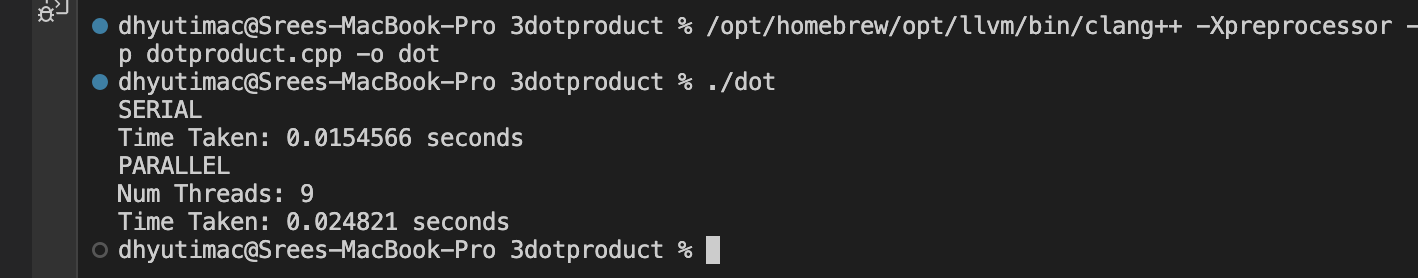
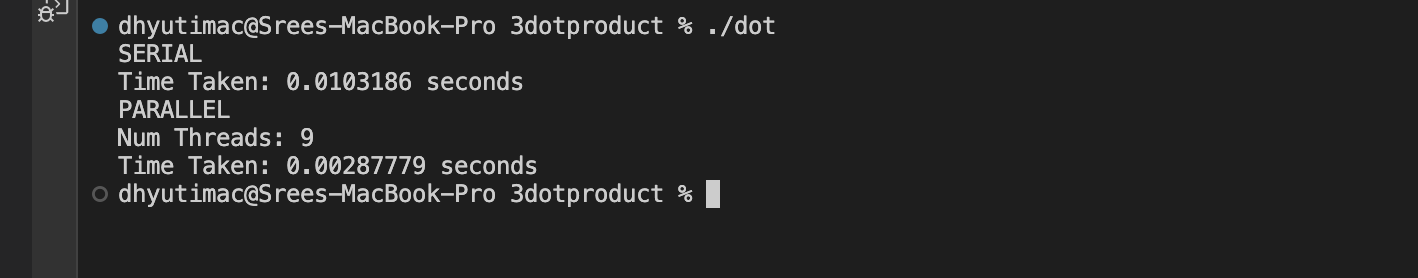
Add the get_threads function separately to save time

diff --git a/OpenMP/3dotproduct/dotproduct.cpp b/OpenMP/3dotproduct/dotproduct.cpp
@@ -1,5 +1,3 @@
-// Code to parallelize the dot product of two large arrays
-
 #include <iostream>
 #include <omp.h>
 #include <chrono>
@@ -9,68 +7,68 @@ using namespace std;
 
 long long N = 10000000;
 
-int main(){
-
+int main() {
     omp_set_num_threads(9);
 
-    long long *a, *b;
+    long long *a = new long long[N];
+    long long *b = new long long[N];
+
     random_device rd;
     mt19937 gen(rd());
-
-    a = new long long[N];
-    b = new long long[N];
-
     uniform_int_distribution<int> dist(1, 1000000);
 
-    // populate a and b
-    for(long long i = 0; i< N; i++){
+    // Parallel initialization of arrays
+    #pragma omp parallel for
+    for (long long i = 0; i < N; i++) {
         a[i] = dist(gen);
         b[i] = dist(gen);
     }
 
     long long dot_product = 0;
 
-
-    // dot product serial
+    // Serial dot product
     auto start_serial = chrono::high_resolution_clock::now();
-    for (long long i = 0; i < N; i++){
-        dot_product += a[i]*b[i];
+    for (long long i = 0; i < N; i++) {
+        dot_product += a[i] * b[i];
     }
     auto end_serial = chrono::high_resolution_clock::now();
     double serial_time = chrono::duration<double>(end_serial - start_serial).count();
 
+    // Reset dot_product for parallel computation
     dot_product = 0;
 
-    // dot product parallel
-
+    // Parallel dot product computation
     auto start_parallel = chrono::high_resolution_clock::now();
     int threads = 0;
+
+    // Keep the threads collection in a separate pragma omp paralle
+    
+
     #pragma omp parallel
     {
         #pragma omp single
         threads = omp_get_num_threads();
-        #pragma omp parallel for reduction(+:dot_product)
-            for(long long i = 0; i < N; i++){
-                dot_product += a[i]*b[i];
-            }
     }
-    auto end_parallel = chrono::high_resolution_clock::now();
 
+    #pragma omp parallel for reduction(+:dot_product)
+    for (long long i = 0; i < N; i++) {
+        dot_product += a[i] * b[i];
+    }
+
+    auto end_parallel = chrono::high_resolution_clock::now();
     double parallel_time = chrono::duration<double>(end_parallel - start_parallel).count();
 
-    // Output times
+    // Output results
     cout << "SERIAL" << endl;
-    cout << "Time Taken: " <<serial_time<< " seconds" << endl;
+    cout << "Time Taken: " << serial_time << " seconds" << endl;
 
     cout << "PARALLEL" << endl;
-    cout<<"Num Threads: "<<threads<<endl;
-    cout << "Time Taken: " <<parallel_time << " seconds" << endl;
+    cout << "Num Threads: " << threads << endl;
+    cout << "Time Taken: " << parallel_time << " seconds" << endl;
 
-    
-    // Memory deallocation
+    // Cleanup
     delete[] a;
     delete[] b;
-
 
     return 0;
 }
